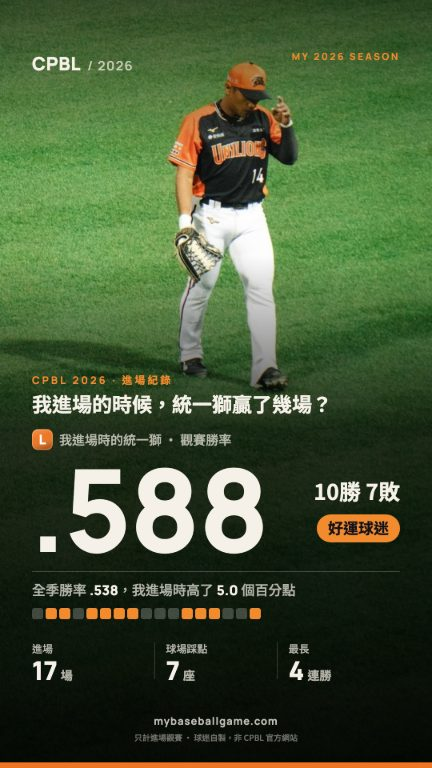
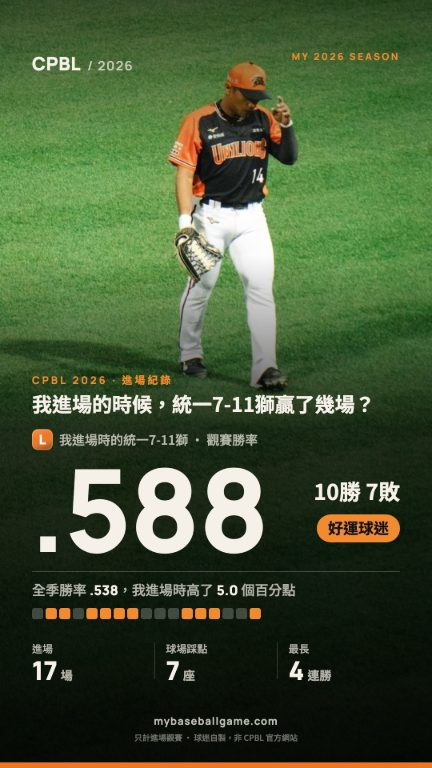
Rename Lions display label

Changed region(s): [[0.331, 0.5, 0.8727, 0.5938]]

diff --git a/docs/index.html b/docs/index.html
@@ -774,7 +774,7 @@
               <span class="playoff-update-status" id="playoff-update-status"></span>
             </div>
             <h2>季後挑戰賽已加入</h2>
-            <p>統一獅 vs 兄弟，已完賽場次會持續更新。現在可以勾選進場賽事，製作專屬的挑戰賽回顧圖。</p>
+            <p>統一7-11獅 vs 兄弟，已完賽場次會持續更新。現在可以勾選進場賽事，製作專屬的挑戰賽回顧圖。</p>
             <button class="playoff-update-link" data-playoff-pick>查看季後挑戰賽 →</button>
           </div>
           <div class="hero-ctas" id="hero-ctas"></div>
@@ -1005,10 +1005,11 @@ const TEAMS = {
   "樂天桃猿":       {abbr:"R", short:"桃猿",   c:"#8E1B3A", k:"#FFFFFF"},
   "味全龍":         {abbr:"W", short:"味全龍", c:"#C8102E", k:"#FFFFFF"},
   "台鋼雄鷹":       {abbr:"T", short:"雄鷹",   c:"#1E5B45", k:"#FFFFFF"},
-  "統一7-ELEVEn獅": {abbr:"L", short:"統一獅", c:"#EE7623", k:"#FFFFFF"},
+  "統一7-ELEVEn獅": {abbr:"L", short:"統一7-11獅", c:"#EE7623", k:"#FFFFFF"},
   "富邦悍將":       {abbr:"G", short:"悍將",   c:"#1D3D8F", k:"#FFFFFF"},
 };
 const TEAM_ORDER = Object.keys(TEAMS);
+const teamDisplayName = team => team === "統一7-ELEVEn獅" ? "統一7-11獅" : team;
 // Per-team accent: f = bright fill (dark backgrounds, bars, pills), i = ink on that fill,
 // l = darker shade for text on the light theme. Neutral summary uses a cream accent.
 const ACCENT = {
@@ -1159,7 +1160,7 @@ function buildFilters(){
     <div class="f-row f-teams" role="group" aria-label="依球隊篩選">
       <span class="f-k">球隊</span>
       <button class="tchip all" data-team="" aria-pressed="${filt.team === ""}">全部</button>
-      ${TEAM_ORDER.map(t => `<button class="tchip" data-team="${esc(t)}" aria-pressed="${filt.team === t}" title="${esc(t)}">${badge(t, false)}<span>${esc(TEAMS[t].short)}</span></button>`).join("")}
+      ${TEAM_ORDER.map(t => `<button class="tchip" data-team="${esc(t)}" aria-pressed="${filt.team === t}" title="${esc(teamDisplayName(t))}">${badge(t, false)}<span>${esc(TEAMS[t].short)}</span></button>`).join("")}
     </div>
     <div class="f-row f-sel">
       <label class="fsel"><span class="f-k">月份</span>
@@ -1677,7 +1678,7 @@ function renderResult(){
   const sel = document.getElementById("view-select");
   sel.innerHTML = `<option value="NONE">觀賽摘要（不選球隊）</option>
     <optgroup label="支持球隊版面 · 看觀賽勝率">${TEAM_ORDER.map(t =>
-      `<option value="${esc(t)}">${esc(t)}</option>`).join("")}</optgroup>
+      `<option value="${esc(t)}">${esc(teamDisplayName(t))}</option>`).join("")}</optgroup>
     <optgroup label="季後挑戰賽版面">${CHALLENGE_TEAMS.map(t =>
       `<option value="PS:${esc(t)}">${esc(TEAMS[t].short)}（季後挑戰賽）</option>`).join("")}</optgroup>`;
   sel.value = view.value;

diff --git a/src/app.html b/src/app.html
@@ -767,7 +767,7 @@
               <span class="playoff-update-status" id="playoff-update-status"></span>
             </div>
             <h2>季後挑戰賽已加入</h2>
-            <p>統一獅 vs 兄弟，已完賽場次會持續更新。現在可以勾選進場賽事，製作專屬的挑戰賽回顧圖。</p>
+            <p>統一7-11獅 vs 兄弟，已完賽場次會持續更新。現在可以勾選進場賽事，製作專屬的挑戰賽回顧圖。</p>
             <button class="playoff-update-link" data-playoff-pick>查看季後挑戰賽 →</button>
           </div>
           <div class="hero-ctas" id="hero-ctas"></div>
@@ -998,10 +998,11 @@ const TEAMS = {
   "樂天桃猿":       {abbr:"R", short:"桃猿",   c:"#8E1B3A", k:"#FFFFFF"},
   "味全龍":         {abbr:"W", short:"味全龍", c:"#C8102E", k:"#FFFFFF"},
   "台鋼雄鷹":       {abbr:"T", short:"雄鷹",   c:"#1E5B45", k:"#FFFFFF"},
-  "統一7-ELEVEn獅": {abbr:"L", short:"統一獅", c:"#EE7623", k:"#FFFFFF"},
+  "統一7-ELEVEn獅": {abbr:"L", short:"統一7-11獅", c:"#EE7623", k:"#FFFFFF"},
   "富邦悍將":       {abbr:"G", short:"悍將",   c:"#1D3D8F", k:"#FFFFFF"},
 };
 const TEAM_ORDER = Object.keys(TEAMS);
+const teamDisplayName = team => team === "統一7-ELEVEn獅" ? "統一7-11獅" : team;
 // Per-team accent: f = bright fill (dark backgrounds, bars, pills), i = ink on that fill,
 // l = darker shade for text on the light theme. Neutral summary uses a cream accent.
 const ACCENT = {
@@ -1152,7 +1153,7 @@ function buildFilters(){
     <div class="f-row f-teams" role="group" aria-label="依球隊篩選">
       <span class="f-k">球隊</span>
       <button class="tchip all" data-team="" aria-pressed="${filt.team === ""}">全部</button>
-      ${TEAM_ORDER.map(t => `<button class="tchip" data-team="${esc(t)}" aria-pressed="${filt.team === t}" title="${esc(t)}">${badge(t, false)}<span>${esc(TEAMS[t].short)}</span></button>`).join("")}
+      ${TEAM_ORDER.map(t => `<button class="tchip" data-team="${esc(t)}" aria-pressed="${filt.team === t}" title="${esc(teamDisplayName(t))}">${badge(t, false)}<span>${esc(TEAMS[t].short)}</span></button>`).join("")}
     </div>
     <div class="f-row f-sel">
       <label class="fsel"><span class="f-k">月份</span>
@@ -1670,7 +1671,7 @@ function renderResult(){
   const sel = document.getElementById("view-select");
   sel.innerHTML = `<option value="NONE">觀賽摘要（不選球隊）</option>
     <optgroup label="支持球隊版面 · 看觀賽勝率">${TEAM_ORDER.map(t =>
-      `<option value="${esc(t)}">${esc(t)}</option>`).join("")}</optgroup>
+      `<option value="${esc(t)}">${esc(teamDisplayName(t))}</option>`).join("")}</optgroup>
     <optgroup label="季後挑戰賽版面">${CHALLENGE_TEAMS.map(t =>
       `<option value="PS:${esc(t)}">${esc(TEAMS[t].short)}（季後挑戰賽）</option>`).join("")}</optgroup>`;
   sel.value = view.value;
